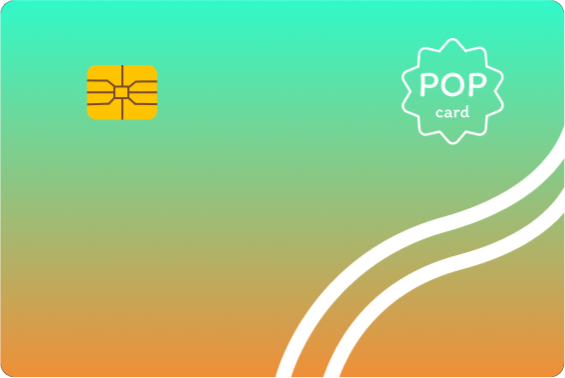
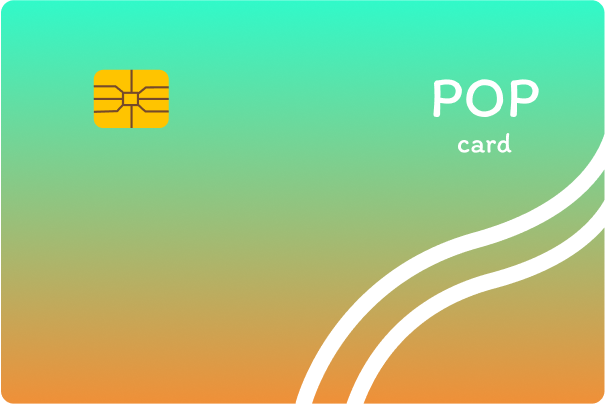
added genric cards

diff --git a/app/components/CardList.tsx b/app/components/CardList.tsx
@@ -2,20 +2,26 @@ import React, { memo } from "react";
 import { View, FlatList, Text, Image, StyleSheet } from "react-native";
 
 const CARDS = [
-  { id: "1", name: "Nubank", number: "1234" },
-  { id: "2", name: "C6", number: "1234" },
-  { id: "3", name: "Inter", number: "1234" },
-  { id: "4", name: "Banco Brasil", number: "1234" },
-  { id: "5", name: "Sntander", number: "1234" },
+  { id: "1", name: "Nubank", number: "1234", color: "#993399" },
+  { id: "2", name: "C6", number: "1234", color: "#1e1e1e" },
+  { id: "3", name: "Inter", number: "1234", color: "#FF7B00" },
+  { id: "4", name: "Banco Brasil", number: "1234", color: "#FCFC34" },
+  { id: "5", name: "Santander", number: "1234", color: "#DC121A" },
+  { id: "6", name: "Neom", number: "1234", color: "#0ACDEB" },
 ];
 
 export const CardList = () => {
   const Item = memo(({ item }: any) => (
     <View style={styles.cardContainer}>
       <Image
-        source={require("../assets/card.png")}
-        style={styles.image}
-        // resizeMode="contain"
+        source={require("../assets/default-card.png")}
+        style={[styles.image, { tintColor: item.color }]}
+        resizeMode="contain"
+      />
+      <Image
+        source={require("../assets/chip.png")}
+        style={styles.chip}
+        resizeMode="contain"
       />
       <View style={styles.textContainer}>
         <Text style={styles.text}>{item.name}</Text>
@@ -25,40 +31,58 @@ export const CardList = () => {
   ));
   return (
     <FlatList
-      style={{ marginTop: 30, maxHeight: 200 }}
       horizontal
       data={CARDS}
       renderItem={({ item }) => <Item item={item} />}
       showsHorizontalScrollIndicator={false}
+      snapToAlignment="start"
+      decelerationRate={"fast"}
+      snapToInterval={160}
+      bounces={false}
+      style={{
+        marginTop: 30,
+        maxHeight: 200,
+      }}
+      contentContainerStyle={{
+        paddingRight: 20,
+        // gap: 10,
+      }}
     />
   );
 };
 
 const styles = StyleSheet.create({
   cardContainer: {
-    width: 146,
-    height: 135,
+    // width: 150,
+    // height: 135,
     flexDirection: "column",
-    padding: 5,
-    borderRadius: 10,
-    borderColor: "#4facee",
-    borderWidth: 2,
-    marginRight: 10,
+    // padding: 5,
+    // borderRadius: 10,
+    // backgroundColor: "#4facee",
+    // borderWidth: 2,
+    marginLeft: 20,
+    // flex: 1,
   },
   textContainer: {
-    // flex: 1,
-    alignItems: "center",
+    padding: 5,
+    // alignItems: "center",
     justifyContent: "center",
     // backgroundColor: "red",
   },
   image: {
-    width: "100%",
+    width: 140,
     height: 90,
+    position: "relative",
+  },
+  chip: {
+    position: "absolute",
+    width: 20,
+    left: 20,
   },
   text: {
     // fontFamily: "Alexandria",
     fontWeight: "400",
-    fontSize: 14,
+    fontSize: 16,
     color: "#3e3e3e",
   },
 });

diff --git a/app/views/Home/index.tsx b/app/views/Home/index.tsx
@@ -16,7 +16,7 @@ import { CardList } from "@/components/CardList";
 
 export const Home = () => {
   return (
-    <SafeAreaView style={StyleSheet.absoluteFill}>
+    <SafeAreaView style={[StyleSheet.absoluteFill, styles.container]}>
       {/* <LinearGradient
       colors={["rgba(48,249,201,0.5)", "#fff", "#fff", "rgba(239,144,55,0.5)"]}
       style={StyleSheet.absoluteFill}
@@ -34,7 +34,7 @@ export const Home = () => {
 
 const styles = StyleSheet.create({
   container: {
-    // height: "100%",
+    backgroundColor: "#dddddd",
   },
 
   message: {

diff --git a/app/views/Splash/index.tsx b/app/views/Splash/index.tsx
@@ -51,8 +51,7 @@ export const Splash = ({ onComplete }) => {
             color: "#fff",
           }}
         >
-          Aquele que habita no esconderijo do altíssimo à sombra do onipotente
-          descansará.
+          Tudo posso naqule que me fortalece.
         </Text>
       </LinearGradient>
     </View>

diff --git a/app/navigation/tabs.tsx b/app/navigation/tabs.tsx
@@ -122,7 +122,7 @@ const CustomTabButtonIcon = ({ children, onPress }: any) => (
         height: 90,
         borderRadius: 45,
         backgroundColor: "rgba(239,144,55, 1)",
-        borderColor: "#F2F2F2",
+        borderColor: "#dddddd",
         borderWidth: 5,
       }}
     >
